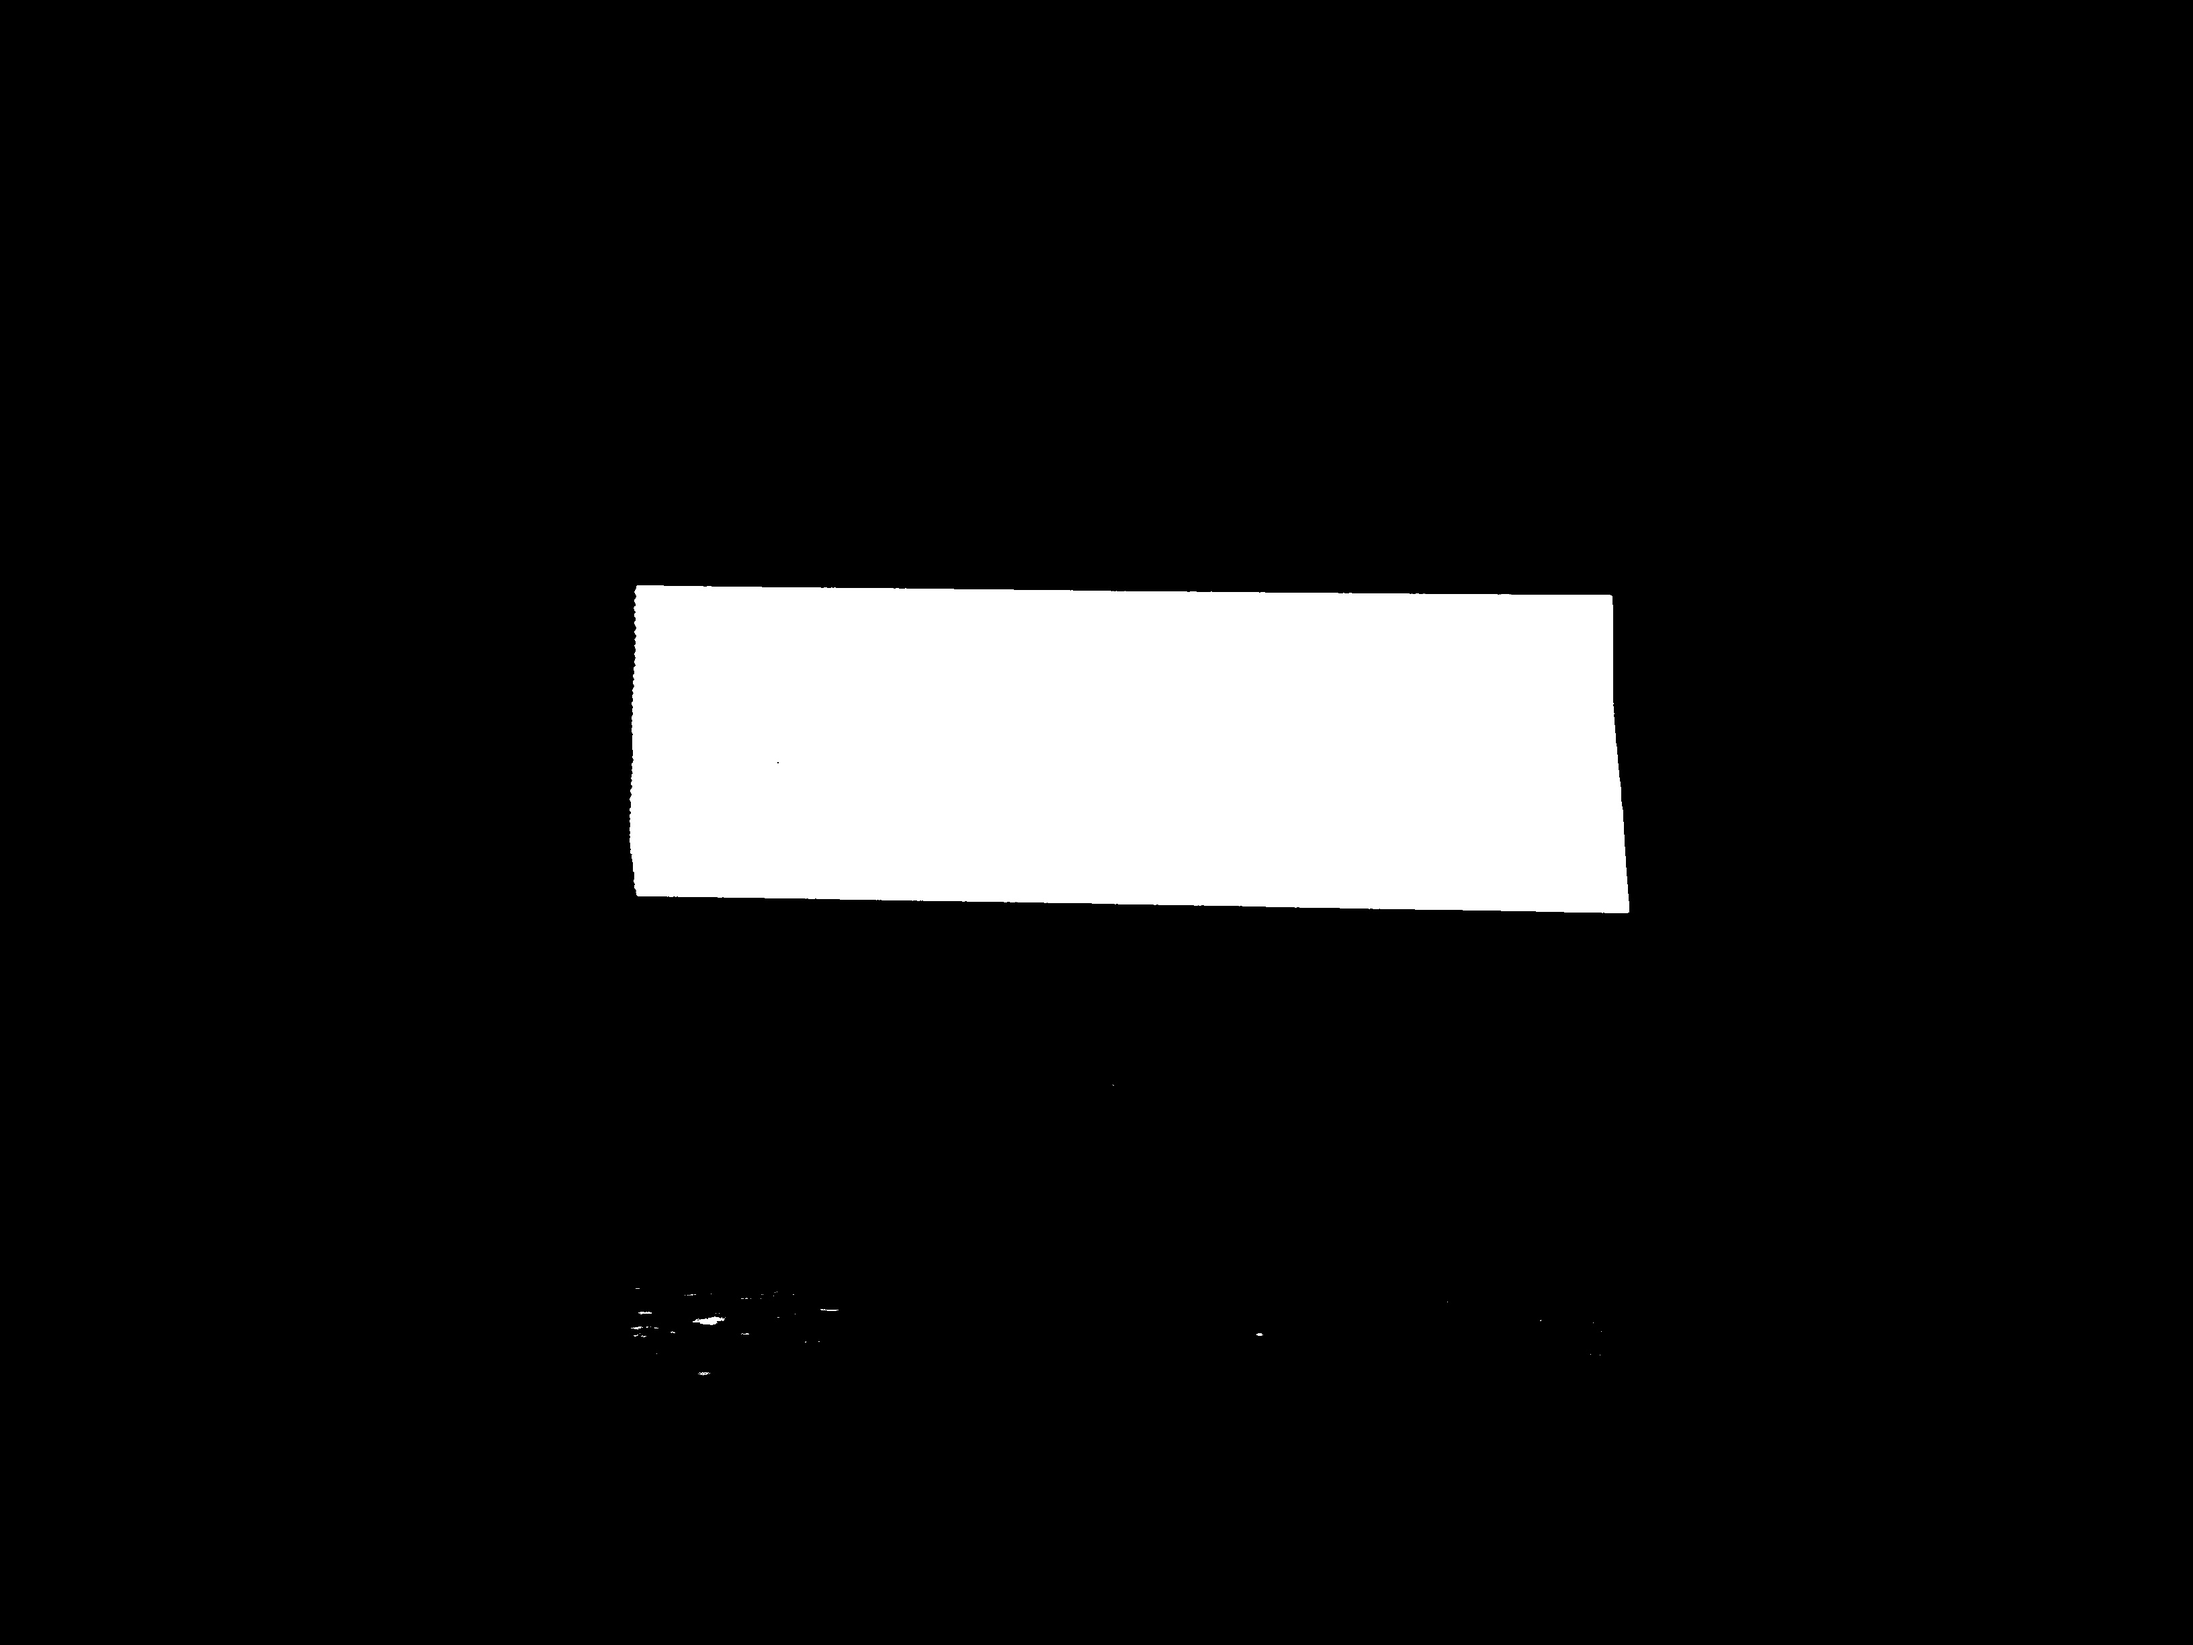
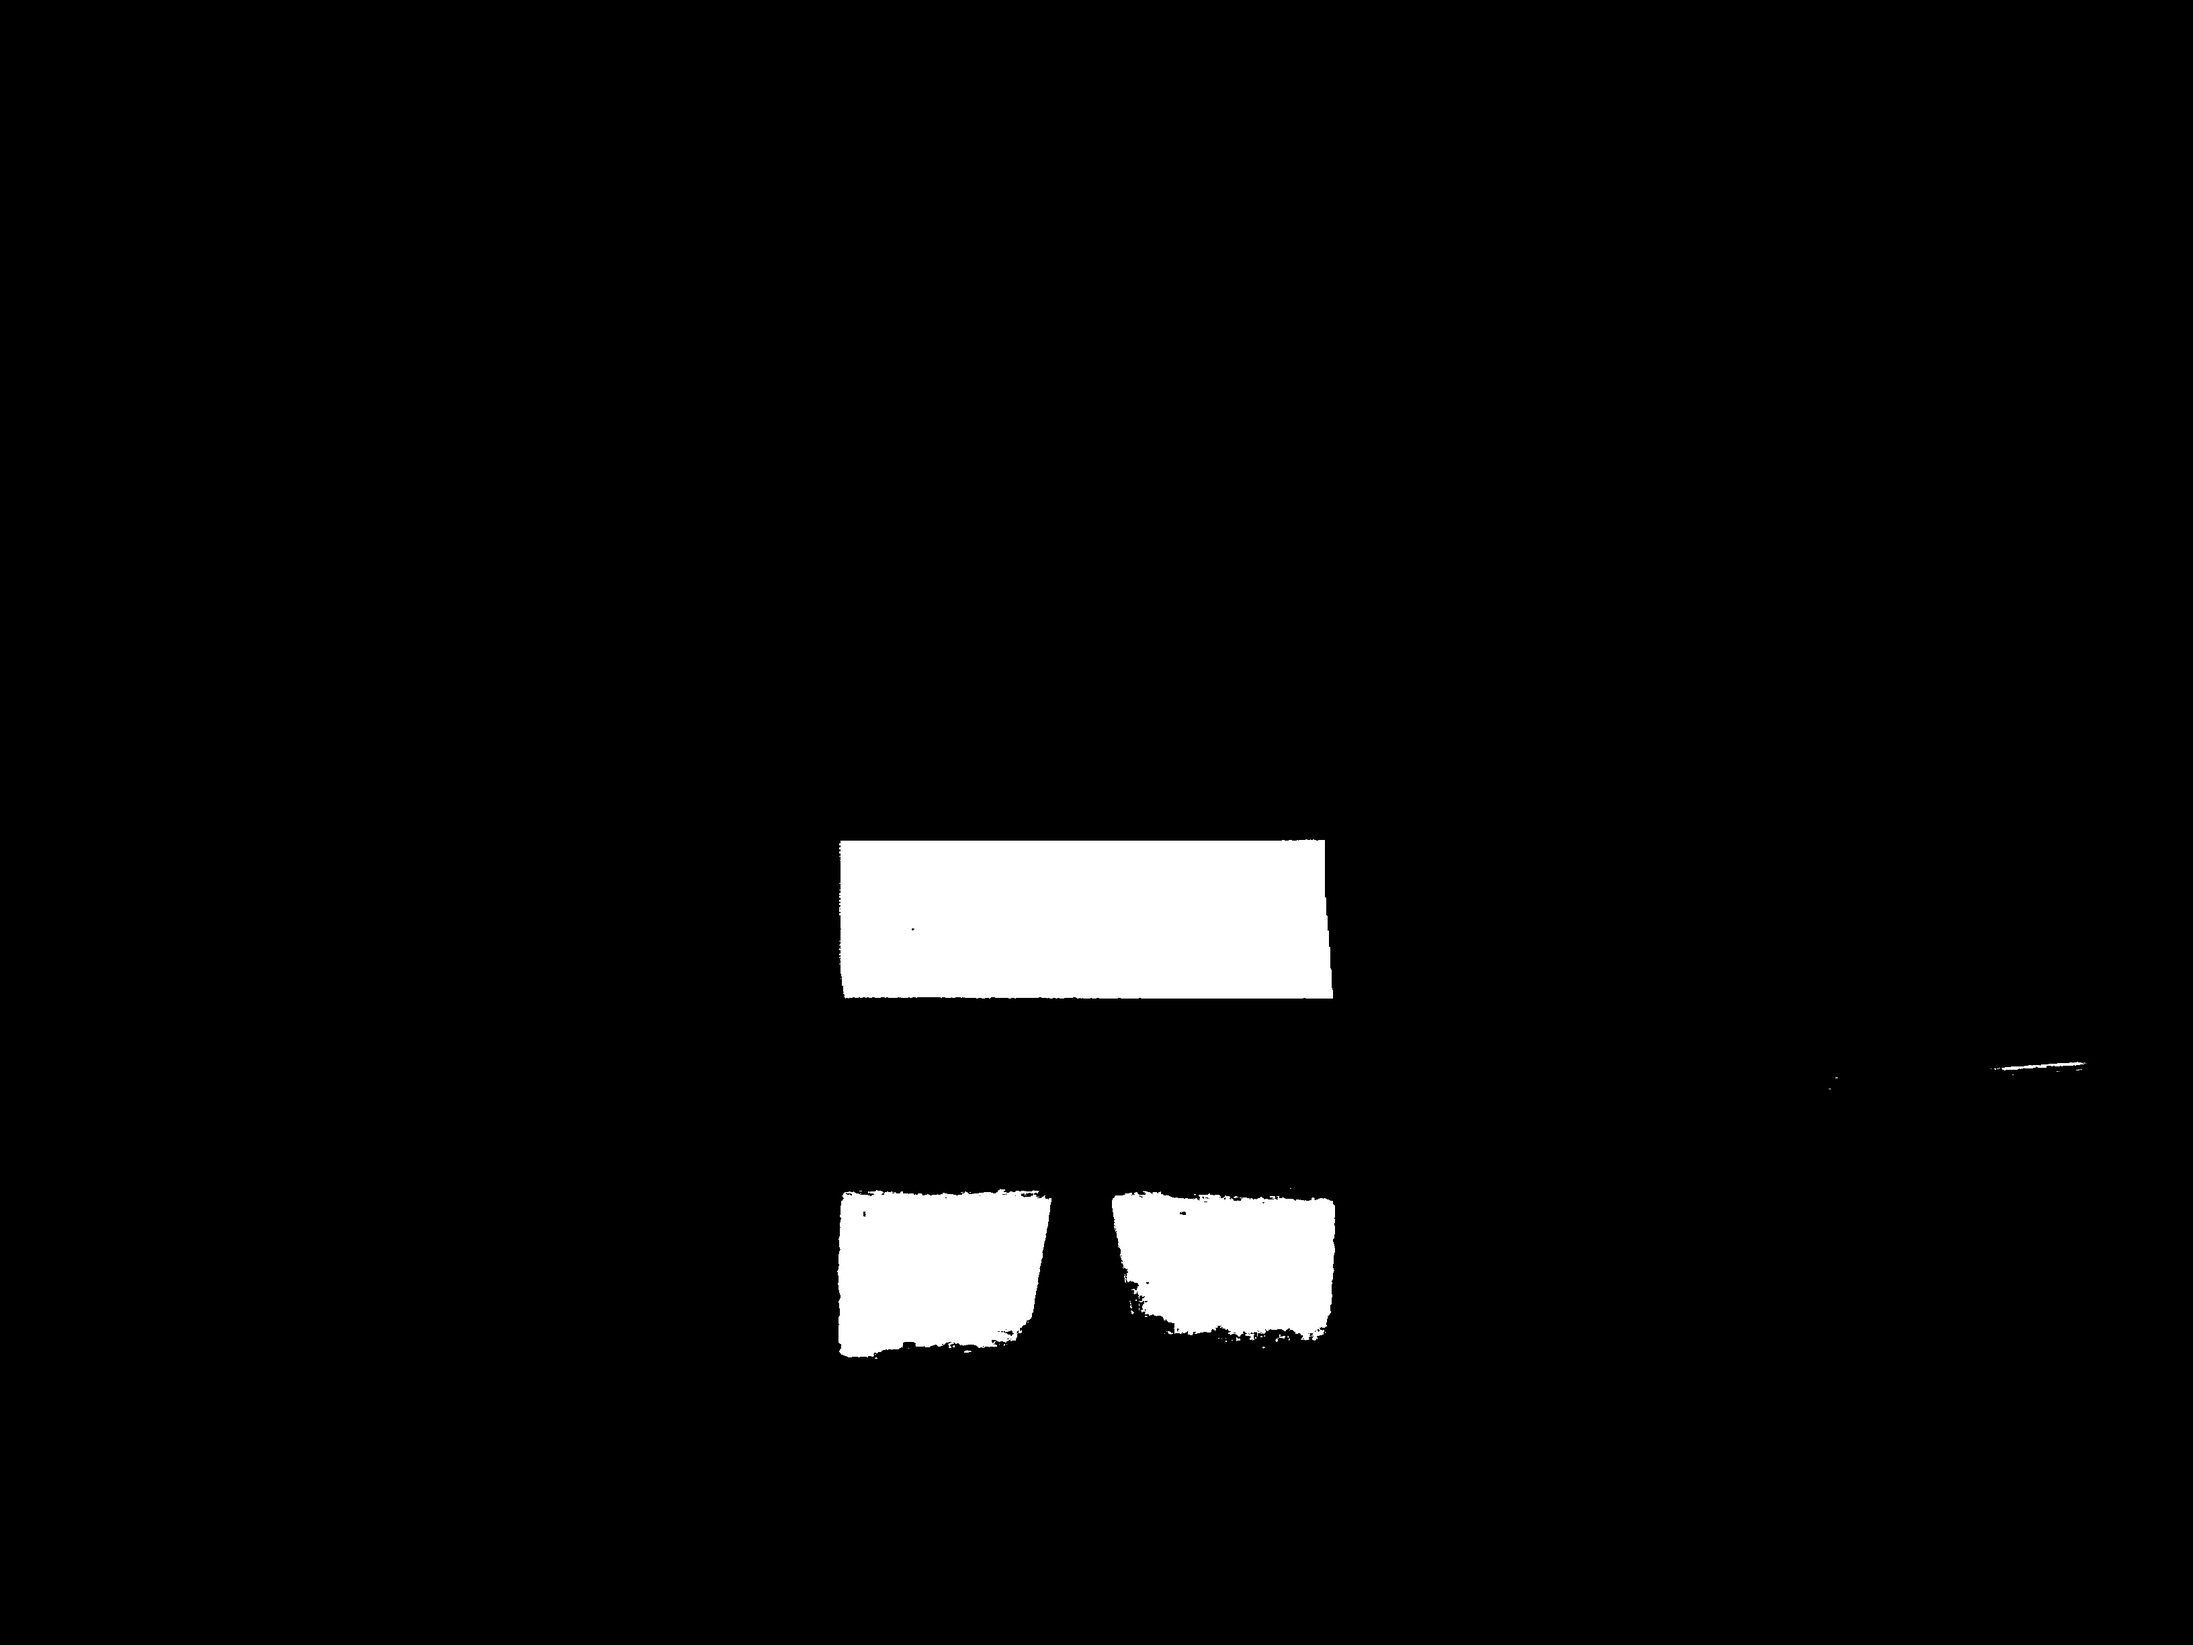
Vision stuff, I forget what

Changed region(s): [[0.2812, 0.3415, 0.75, 0.6209], [0.375, 0.7141, 0.625, 0.8382]]

diff --git a/PyScripts/VisionLib.py b/PyScripts/VisionLib.py
@@ -2,8 +2,6 @@ import cv2
 import numpy as np
 import math
 import json
-from copy import deepcopy
-
 
 with open('config.json') as json_data_file:
     config = json.load(json_data_file)
@@ -66,8 +64,6 @@ def get_largest_box(image) : # takes a image, draws a bounding box around the la
     contours = get_contours(image)
     largest_contour = find_largest_contour(contours)
     x, y, w, h = cv2.boundingRect(largest_contour)
-    #image = cv2.drawContours(image, largest_contour, 0, (0, 0, 255), 2)
-    #cv2.imwrite("target.jpg", image)
 
     return x, y, w, h
 
@@ -115,20 +111,15 @@ def get_x_offset(image) : # takes image and finds the x offset of the target in 
     center_image = get_center_of_image(image)
     center_target = get_center_of_target(image)
 
-    #offset is x in centerimagex + x = centertargetx
-
     return center_target[0] - center_image[0]
 
 def get_y_offset(image) : # takes image and finds the y offset of the target in relation to the center of the image.
     center_image = get_center_of_image(image)
     center_target = get_center_of_target(image)
 
-    #offset is y in centerimagey + y = centertargety
-
     return center_target[1] - center_image[1]
 
 def get_offset_angle(image) : # takes an image and finds the angle offset of the target.
-
     x_offset = get_x_offset(image)
     x_res = camera.RESOLUTION_X
     y_res = camera.RESOLUTION_Y
@@ -148,32 +139,25 @@ def get_horizontal_offset_degrees(image):
     return ((centerPoint[0] * horizontalFov) / resWidth) - (horizontalFov / 2)
 
 def get_horizontal_offset_radians(image) :
-
     return (get_horizontal_offset_degrees(image)  * (2 * math.pi)) / 360.0
 
 def get_x_offset_inches(image) :
-
-    real_target_width = 12 # in inches
+    real_target_width = 12 # real target width in inches tho
 
     return (get_x_offset(image) * real_target_width) / get_width_of_target(image)
 
 def get_distance(image) :
-    print(get_horizontal_offset_degrees(image))
     return get_x_offset_inches(image) / math.tan(get_horizontal_offset_radians(image))
 
+def get_distance_2(image) : # needs hella work...
+    return math.sqrt((get_x_offset_inches(image) * get_x_offset_inches(image)) * (get_distance(image) * get_distance(image)))
 
-def get_target_offset_rightedge(image) : # find the pixel offset of the center of the target to the most right edge of the given image.
+image = cv2.imread("IMG_0184.JPG")
+get_mask(image)
+cv2.imwrite("masked.JPG", get_mask(image))
 
-    center = get_center_of_target(image)
-    center_x = center[0]
-
-    return get_width_of_image(image) - center_x
-
-#IPhone 6 29mm fl
-image = cv2.imread("image.JPG")
-
-print(get_x_offset_inches(image))
 print(get_distance(image))
+
 
 
 
